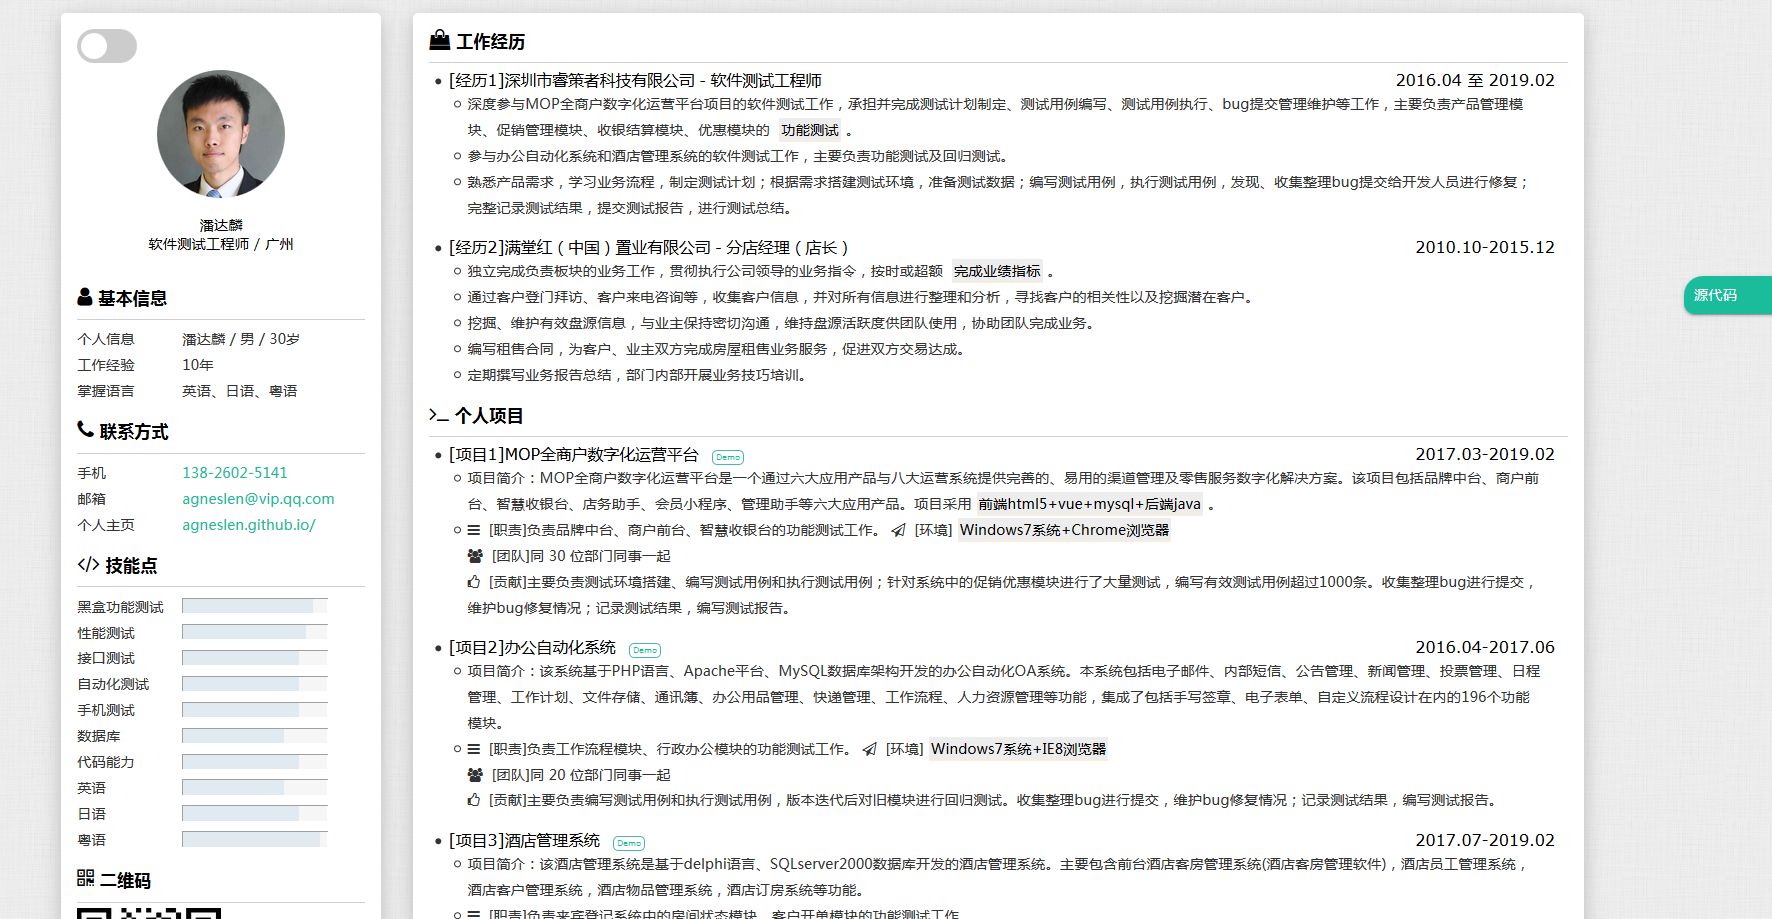
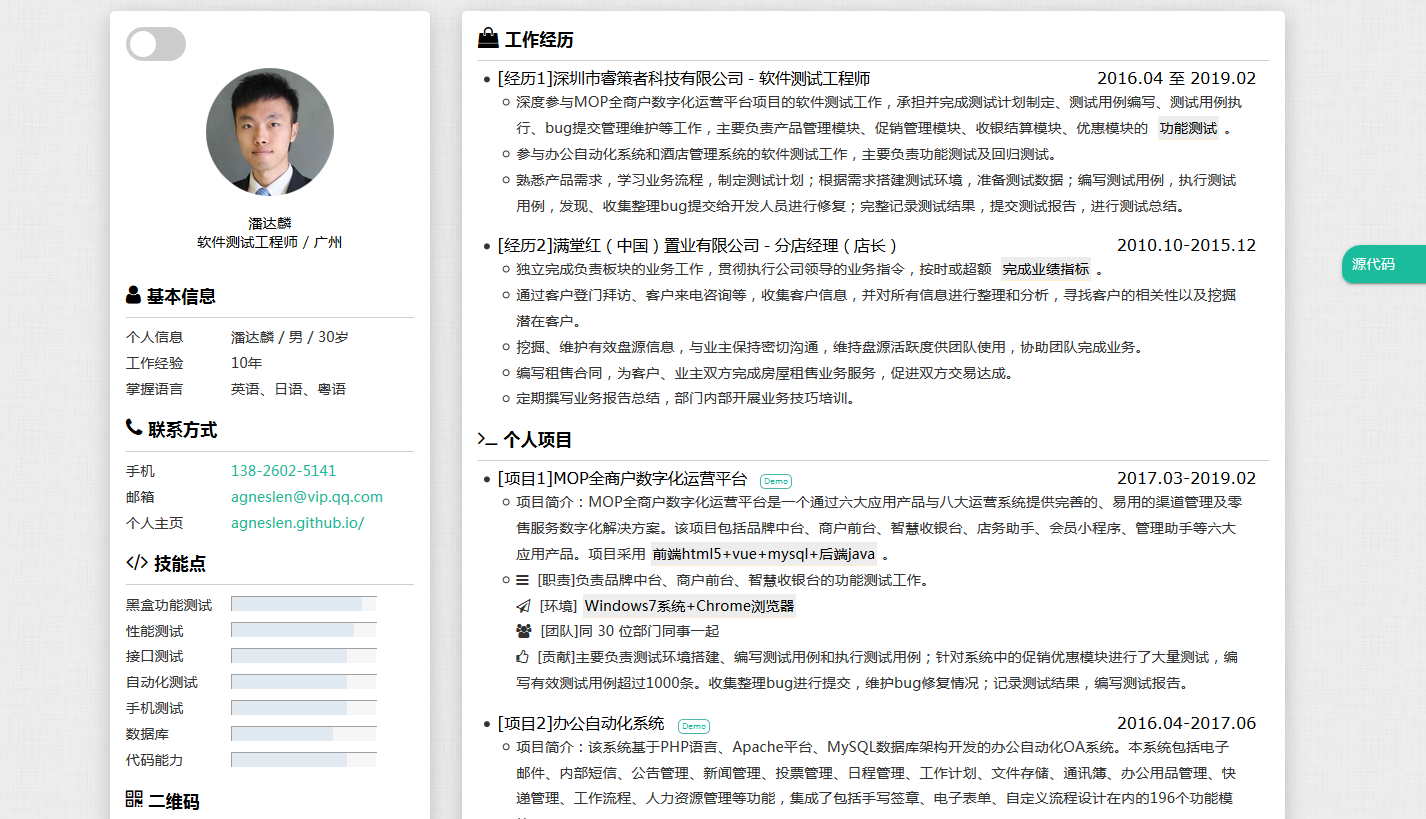
test08

Changed region(s): [[0.0309, 0.0, 1.0, 1.0]]

diff --git a/index.html b/index.html
@@ -156,18 +156,6 @@
                         <label>代码能力</label>
                         <progress value="80" max="100"></progress>
                     </li>
-                    <li>
-                        <label>英语</label>
-                        <progress value="70" max="100"></progress>
-                    </li>
-                    <li>
-                        <label>日语</label>
-                        <progress value="80" max="100"></progress>
-                    </li>
-                    <li>
-                        <label>粤语</label>
-                        <progress value="95" max="100"></progress>
-                    </li>
                 </ul>
             </section>
 
